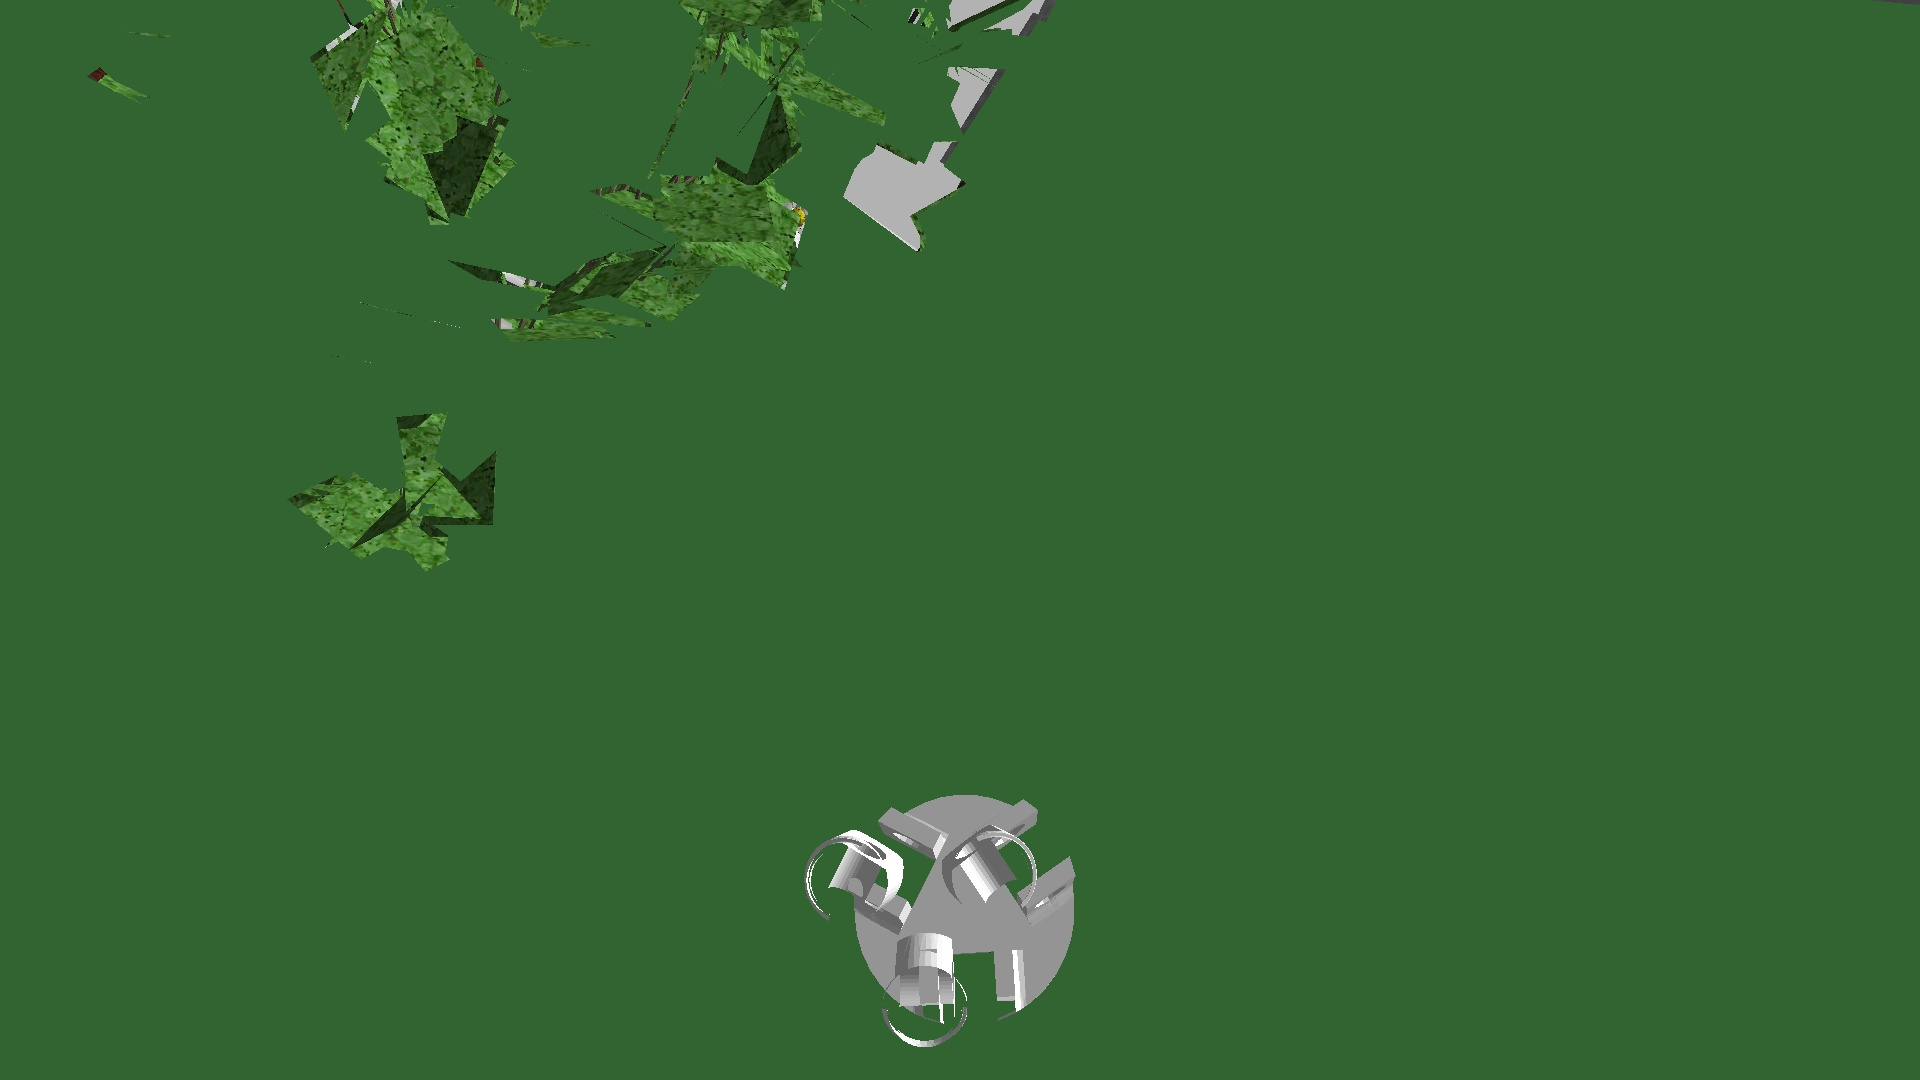
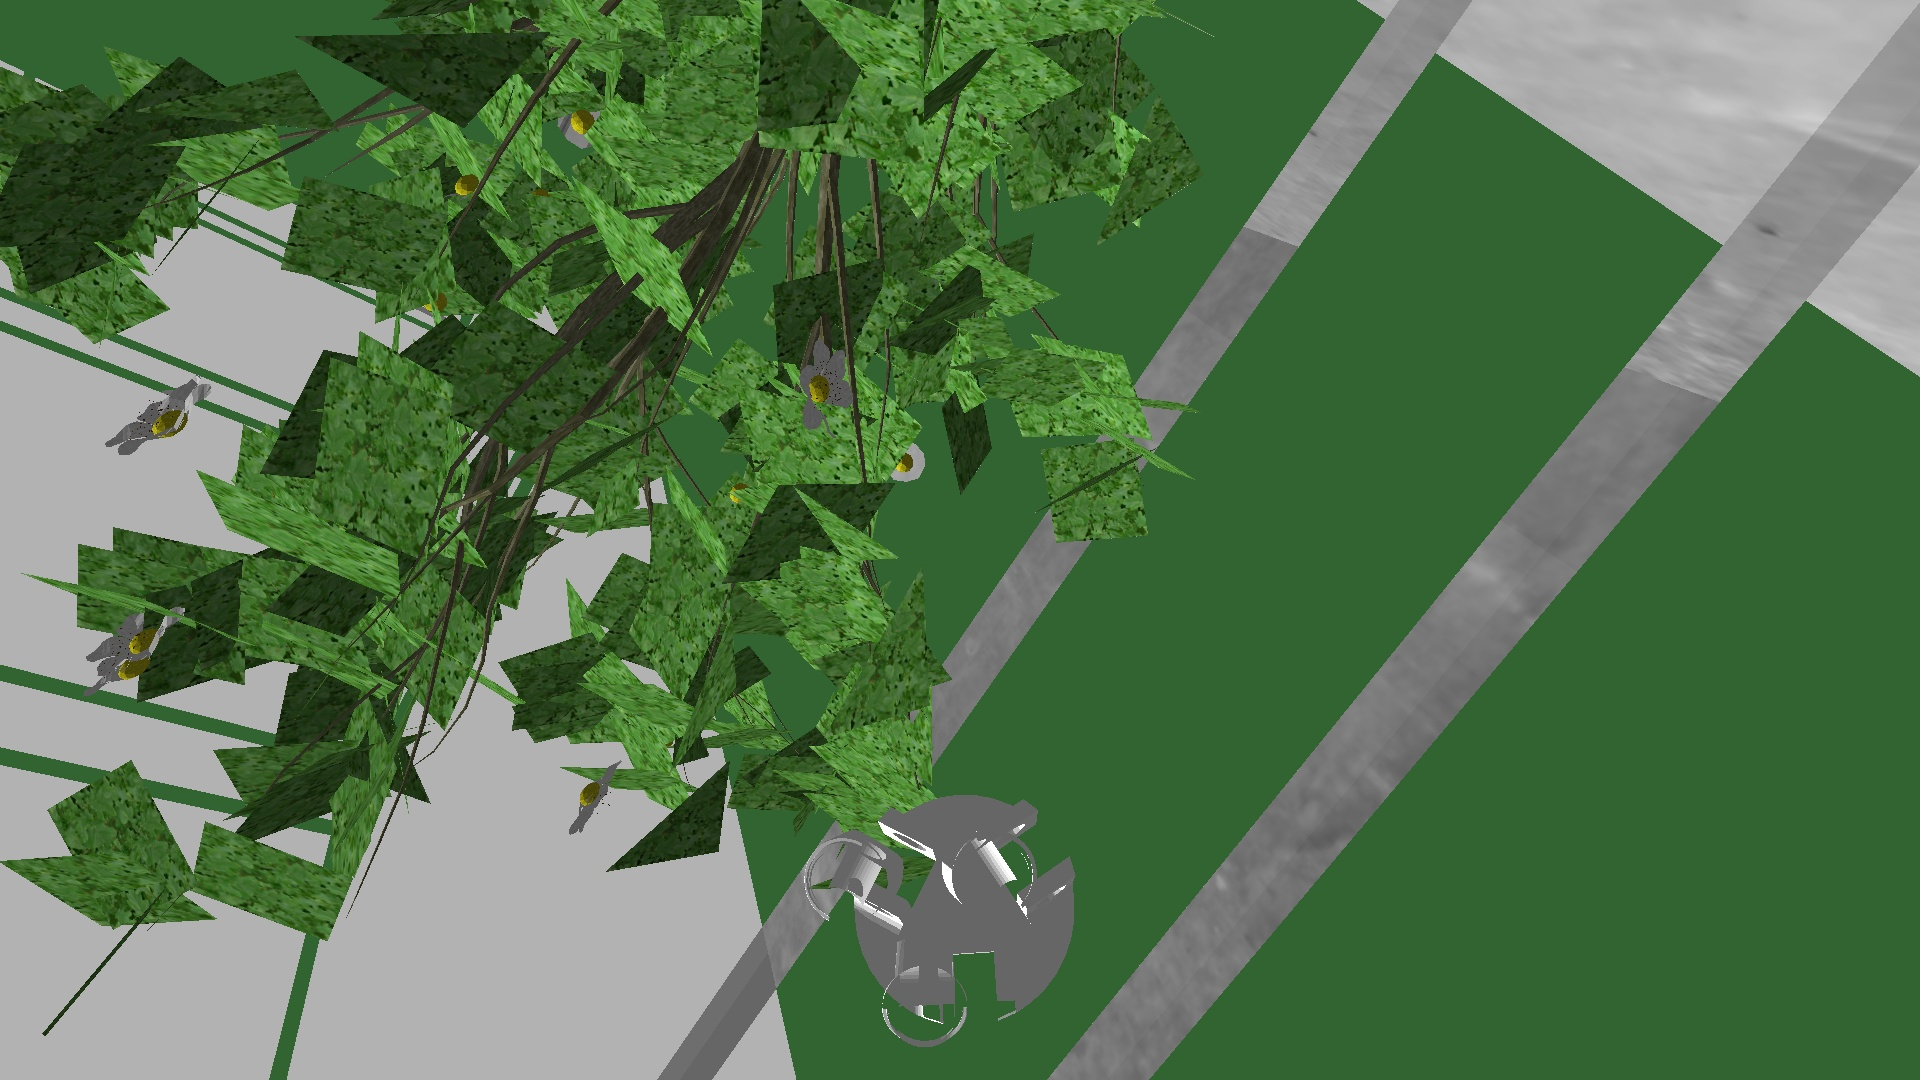
tuned in another position, added in some return to home logic

diff --git a/manipulation/manipulation_mapping/src/pre_pose_mapping_ros_sim.py b/manipulation/manipulation_mapping/src/pre_pose_mapping_ros_sim.py
@@ -74,10 +74,12 @@ class BuildMap:
 #Positions as of 8/12, j2n6s300 in respect to base_link
 #
 #Straight On
-# - Translation: [0.692, 0.042, 0.613]
-# - Rotation: in Quaternion [0.769, 0.225, 0.556, 0.224]
-#             in RPY (radian) [2.015, -0.854, 1.128]
-#             in RPY (degree) [115.440, -48.902, 64.625]
+# - Translation: [0.760, 0.050, 0.591]
+# - Rotation: in Quaternion [0.698, 0.261, 0.653, 0.132]
+#             in RPY (radian) [1.781, -1.004, 1.551]
+#             in RPY (degree) [102.017, -57.539, 88.886]
+
+
 #Top Left
 # - Translation: [0.643, 0.261, 0.733]
 # - Rotation: in Quaternion [0.845, -0.131, 0.437, 0.278]
@@ -98,12 +100,44 @@ class BuildMap:
 # - Rotation: in Quaternion [0.160, 0.569, -0.194, 0.783]
 #             in RPY (radian) [0.098, 1.263, -0.413]
 #             in RPY (degree) [5.634, 72.340, -23.668]
+# 
 
 
+#Retract position
+# - Translation: [0.497, 0.029, 0.550]
+# - Rotation: in Quaternion [-0.094, 0.860, -0.012, 0.501]
+#             in RPY (radian) [-2.916, 1.035, -2.795]
+#             in RPY (degree) [-167.072, 59.276, -160.138]
 
 
-#Initial (1
-        rospy.loginfo("position 1: Top Right of Tree")
+#(1
+        rospy.loginfo("position 1:Middle of Tree")
+        # # goal.angles.joint1= 170
+        # # goal.angles.joint2= 230
+        # # goal.angles.joint3= 90
+        # # goal.angles.joint4= 0
+        # # goal.angles.joint5= 130
+        # # goal.angles.joint6= -170
+        # # goal.angles.joint7= 0.0
+        _pose_goal.position.x = 0.760
+        _pose_goal.position.y = 0.050
+        _pose_goal.position.z = 0.591
+        _pose_goal.orientation.x = 0.698
+        _pose_goal.orientation.y = 0.261
+        _pose_goal.orientation.z = 0.653
+        _pose_goal.orientation.w = 0.132
+        self.send_pose(_pose_goal)
+        # # client.wait_for_server()
+        # # client.send_goal(goal)
+        # # if client.wait_for_result(rospy.Duration(20.0)):
+        # #     result = client.get_result()
+        # # else:
+        # #     print('        the joint angle action timed-out')
+        # #     client.cancel_all_goals()
+        self.search_for_flowers()
+
+#Initial (2
+        rospy.loginfo("position 2: Top Right of Tree")
         # goal.angles.joint1 =  270.0
         # goal.angles.joint2 =  120.0
         # goal.angles.joint3 =  30.0
@@ -130,8 +164,8 @@ class BuildMap:
         #     client.cancel_all_goals()
         self.search_for_flowers()
 
-#(2
-        rospy.loginfo("position 2: Top Left of Tree")
+#(3
+        rospy.loginfo("position 3: Top Left of Tree")
         # goal.angles.joint1 =  310.0
         # goal.angles.joint2 =  150.0
         # goal.angles.joint3 =  160.0
@@ -150,8 +184,8 @@ class BuildMap:
         self.send_pose(_pose_goal)
         self.search_for_flowers()
 
-#(3
-        rospy.loginfo("position 3:Bottom Left of Tree")
+#(4
+        rospy.loginfo("position 4:Bottom Left of Tree")
         # goal.angles.joint1= 370
         # goal.angles.joint2= 180
         # goal.angles.joint3= 75
@@ -170,8 +204,8 @@ class BuildMap:
 
         self.search_for_flowers()
 
-#(4
-        rospy.loginfo("position 4:Bottom Right of Tree")
+#(5
+        rospy.loginfo("position 5:Bottom Right of Tree")
         # goal.angles.joint1= 370
         # goal.angles.joint2= 230
         # goal.angles.joint3= 80
@@ -216,36 +250,7 @@ class BuildMap:
 
 #I think this one is wrong, need to redo
 
-#Straight On
-# - Translation: [0.692, 0.042, 0.613]
-# - Rotation: in Quaternion [0.769, 0.225, 0.556, 0.224]
-#             in RPY (radian) [2.015, -0.854, 1.128]
-#             in RPY (degree) [115.440, -48.902, 64.625]
-#(5
-        # rospy.loginfo("position 5:Middle of Tree")
-        # # goal.angles.joint1= 170
-        # # goal.angles.joint2= 230
-        # # goal.angles.joint3= 90
-        # # goal.angles.joint4= 0
-        # # goal.angles.joint5= 130
-        # # goal.angles.joint6= -170
-        # # goal.angles.joint7= 0.0
-        # _pose_goal.position.x = 0.692
-        # _pose_goal.position.y = 0.042
-        # _pose_goal.position.z = 0.613
-        # _pose_goal.orientation.x = 0.769
-        # _pose_goal.orientation.y = 0.225
-        # _pose_goal.orientation.z = 0.556
-        # _pose_goal.orientation.w = 0.224
-        # self.send_pose(_pose_goal)
-        # # client.wait_for_server()
-        # # client.send_goal(goal)
-        # # if client.wait_for_result(rospy.Duration(20.0)):
-        # #     result = client.get_result()
-        # # else:
-        # #     print('        the joint angle action timed-out')
-        # #     client.cancel_all_goals()
-        # self.search_for_flowers()
+
 #Unused atm
 # #(6
 #         rospy.loginfo("position 6")

diff --git a/manipulation/manipulation_state_machine/src/state_machine_pollinating_sim.py b/manipulation/manipulation_state_machine/src/state_machine_pollinating_sim.py
@@ -287,29 +287,39 @@ class Pollination_manipulation:
         self.flowers_order = Int16()
         self.flowers = FlowerMap()
         self.flowers_with_offset = []
-        #self.home_position()
+        self.home_position()
         self.start()
 
     def home_position(self):
         rospy.loginfo("Go to Home Position/Unwind")
-        _client = actionlib.SimpleActionClient( "/j2n6s300_driver/joints_action/joint_angles",kinova_msgs.msg.ArmJointAnglesAction)
-        _client.wait_for_server()
-        _goal = kinova_msgs.msg.ArmJointAnglesGoal()
-        _goal.angles.joint1 =  270.0
-        _goal.angles.joint2 =  150.0
-        _goal.angles.joint3 =  60.0
-        _goal.angles.joint4 =  120.0
-        _goal.angles.joint5 =  0.0
-        _goal.angles.joint6 =  -90.0
-        _goal.angles.joint7 =  0
-        _client.send_goal(_goal)
-        if _client.wait_for_result(rospy.Duration(20.0)):
-            _result = _client.get_result()
-            return
-        else:
-            rospy.logerr('the joint angle action timed-out')
-            _client.cancel_all_goals()
-            return
+        _pose_goal = Pose()
+        _pose_goal.position.x = 0.497
+        _pose_goal.position.y = 0.029
+        _pose_goal.position.z = 0.550
+        _pose_goal.orientation.x = -0.094
+        _pose_goal.orientation.y = 0.860
+        _pose_goal.orientation.z = -0.012
+        _pose_goal.orientation.w = 0.501
+        self.send_pose(_pose_goal)
+
+        # _client = actionlib.SimpleActionClient( "/j2n6s300_driver/joints_action/joint_angles",kinova_msgs.msg.ArmJointAnglesAction)
+        # _client.wait_for_server()
+        # _goal = kinova_msgs.msg.ArmJointAnglesGoal()
+        # _goal.angles.joint1 =  270.0
+        # _goal.angles.joint2 =  150.0
+        # _goal.angles.joint3 =  60.0
+        # _goal.angles.joint4 =  120.0
+        # _goal.angles.joint5 =  0.0
+        # _goal.angles.joint6 =  -90.0
+        # _goal.angles.joint7 =  0
+        # _client.send_goal(_goal)
+        # if _client.wait_for_result(rospy.Duration(20.0)):
+        #     _result = _client.get_result()
+        #     return
+        # else:
+        #     rospy.logerr('the joint angle action timed-out')
+        #     _client.cancel_all_goals()
+        #     return
 
 
     def shutdown(self):

diff --git a/manipulation/manipulation_control/src/ee_go_to_pose_action.cpp b/manipulation/manipulation_control/src/ee_go_to_pose_action.cpp
@@ -79,15 +79,17 @@ EEGoToPoseAction::EEGoToPoseAction(std::string _action_name, ros::NodeHandle &_n
   // add_dev_table();
   add_brambleebee_arch();
   add_brambleebee_computer_box();**/
+  //group_arm_->setNamedTarget("Retract");
+  ROS_INFO("Action Server starting");
+  action_server_.start();
 
-  // group_arm_->setNamedTarget("Retract");
+
   // group_arm_->move();
   // ros::WallDuration(0.5).sleep();
 
   // action_server_.registerGoalCallback(boost::bind(&EEGoToPoseAction::goal_clk, this));
 
-  ROS_INFO("Action Server starting");
-  action_server_.start();
+
 }
 
 void EEGoToPoseAction::goal_clk()
